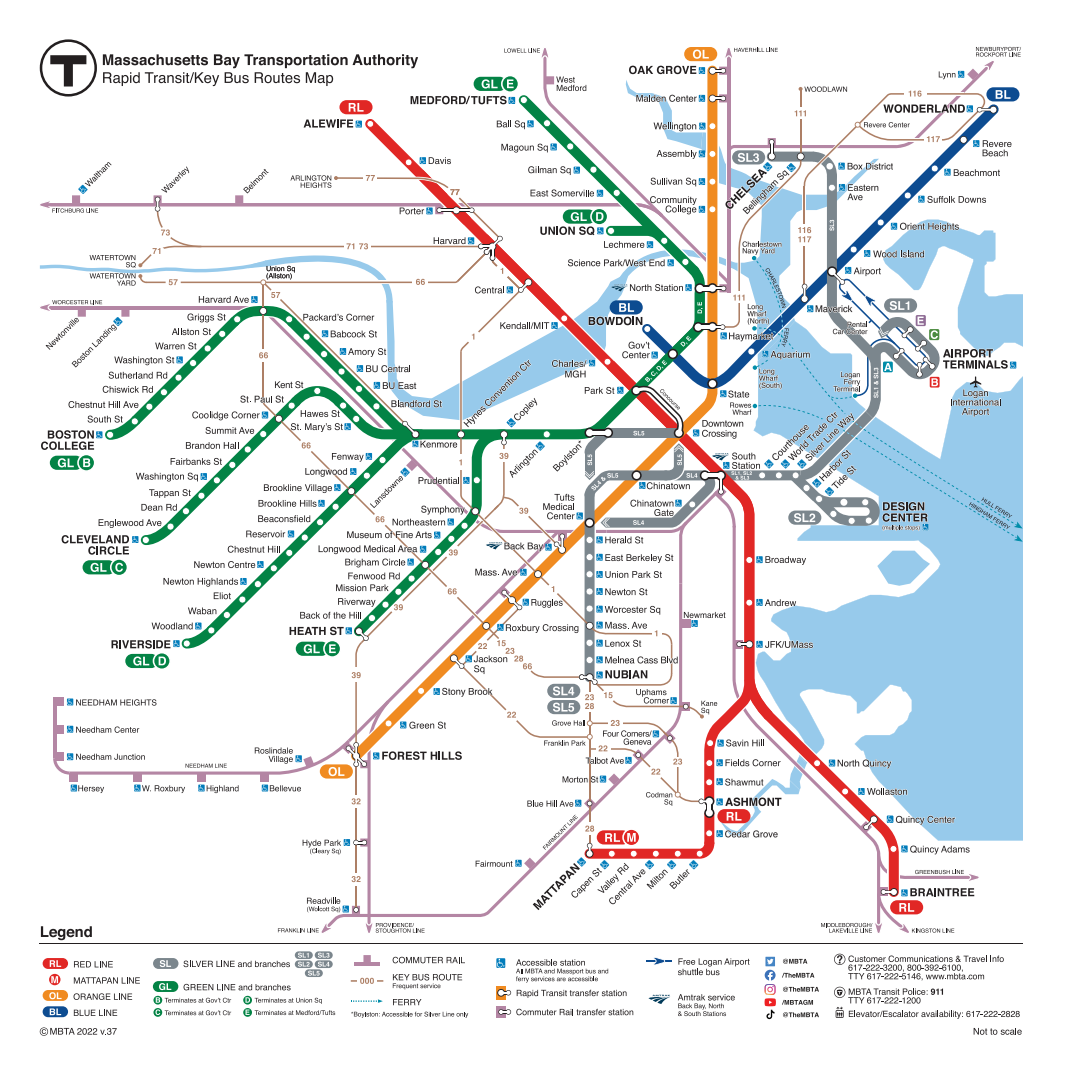
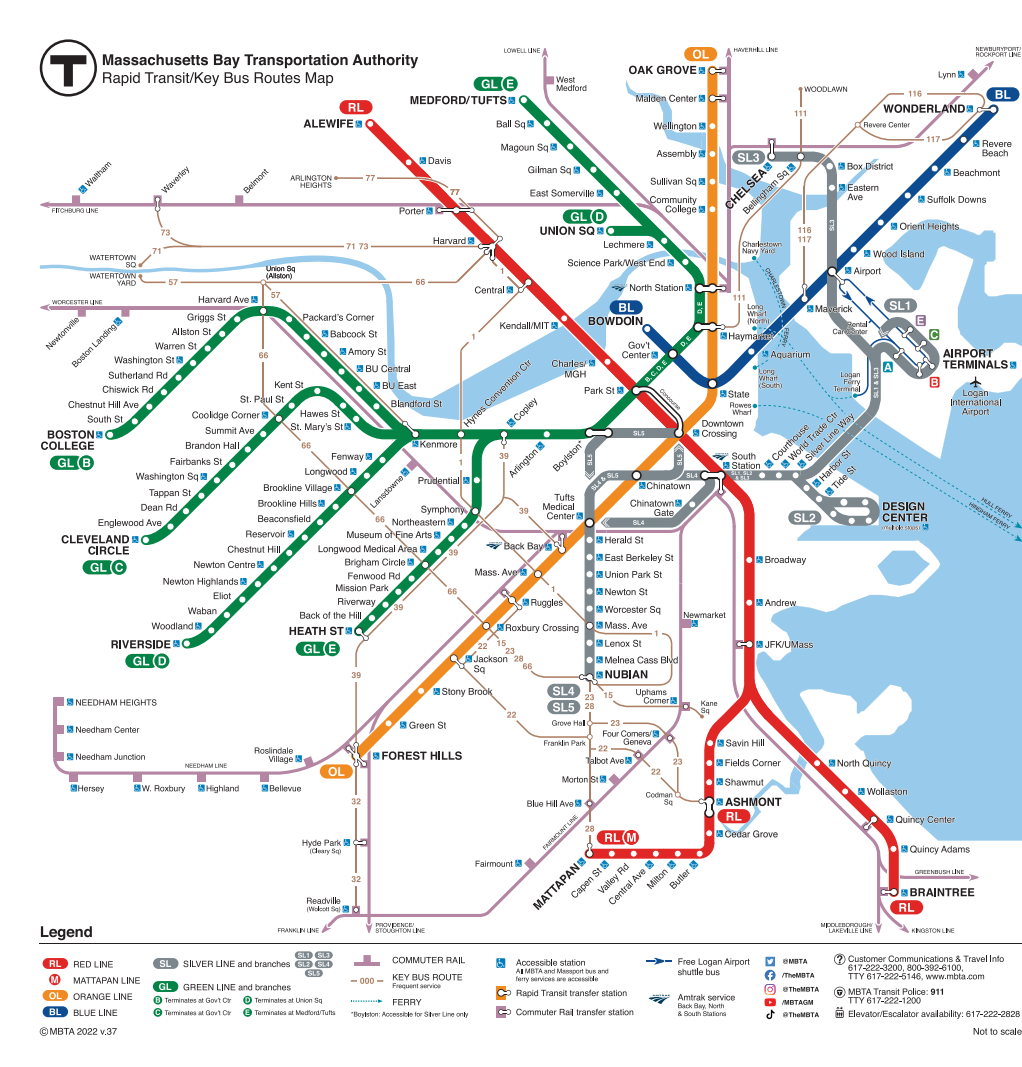
Scheduling UI + map pg

Changed region(s): [[0.0303, 0.0309, 1.0, 0.9897], [0.2123, 0.1546, 0.3337, 0.1856], [0.0607, 0.1546, 0.1213, 0.2165]]

diff --git a/frontend/src/components/pages/homePage.js b/frontend/src/components/pages/homePage.js
@@ -37,7 +37,7 @@ const HomePage = () => {
         <h3 className="text-center my-5">Methods of Transportation</h3>
         <div className="row row-cols-1 row-cols-md-2 row-cols-lg-4 g-4 justify-content-center">
           {[{name: "Commuter Rail",imgSrc: "commuterrailicon.png",onClick: () => navigate("/cmlines"), color: "#84246c"},{name: "Subway",imgSrc: "subwayicon.png",onClick: () => navigate("/subwaylines"),color: "#4c4c5c"},{name: "Bus",imgSrc: "busicon.png",onClick: () => navigate("/buslines"),color: "#fac32c"},{name: "Ferry",imgSrc: "ferryicon.png",onClick: () => navigate("/ferrylines"),color: "#058cac"},].map((transportation, index) => (
-            <div className="col" key={index} style={{ width: "325px" }}>
+            <div className="col" key={index} style={{ width: "330px" }}>
               <div className="card" style={{ height: "375px" }}>
                 <button
                   className="btn"
@@ -55,37 +55,6 @@ const HomePage = () => {
             </div>
           ))}
         </div>
-        <div className="my-5">
-          <h3 className="text-center">Alerts</h3>
-          {alerts.map((alert, index) => (
-            <Card
-              key={index}
-              body
-              outline
-              color="success"
-              className="mx-1 my-2"
-              style={{ width: "30rem" }}
-            >
-              <div className="alert alert-info">
-                <Card.Body>
-                  <Card.Title>Alert</Card.Title>
-                  <Card.Text>
-                    {alert.attributes.header + alert.attributes.description}
-                  </Card.Text>
-                  <Card.Text>
-                    Time:{" "}
-                    {new Date(alert.attributes.updated_at).toLocaleString()}
-                  </Card.Text>
-                </Card.Body>
-              </div>
-            </Card>
-          ))}
-        </div>
-      </div>
-      <div className="d-flex justify-content-center my-5">
-        <button className="btn btn-danger" onClick={handleClick}>
-          Log Out
-        </button>
       </div>
     </>
   );

diff --git a/frontend/src/components/pages/subwayschedule.js b/frontend/src/components/pages/subwayschedule.js
@@ -58,7 +58,7 @@ function Subwayschedule() {
     .slice(0, 50);
 
     return (
-      <div style={{backgroundColor: '#5B4EB9', color: 'white', height: '1500px', overflowY: 'scroll'}}>
+      <div style={{backgroundColor: '#333740', color: 'white', height: '1500px', overflowY: 'scroll'}}>
         <h1>{subway} Line Schedule</h1>
         <div style={{marginBottom: '20px'}}>
           <span style={{marginRight: '10px'}}>Direction:</span>
@@ -68,7 +68,7 @@ function Subwayschedule() {
           </select>
         </div>
         {arrivals.map(schedule => (
-          <Card key={schedule.id} style={{backgroundColor: '#2C2B50', color: 'white'}}>
+          <Card key={schedule.id} style={{backgroundColor: '#5b616b', color: 'white'}}>
             <Card.Body>
               <Card.Title>{getStationName(schedule)}</Card.Title>
               <Card.Text>

diff --git a/frontend/src/components/pages/busschedule.js b/frontend/src/components/pages/busschedule.js
@@ -58,7 +58,7 @@ useEffect(() => {
     .slice(0, 50);
 
     return (
-      <div style={{backgroundColor: '#5B4EB9', color: 'white', height: '1500px', overflowY: 'scroll'}}>
+      <div style={{backgroundColor: '#b38b1f', color: 'white', height: '1500px', overflowY: 'scroll'}}>
         <h1>{bus} Line Schedule</h1>
         <div style={{marginBottom: '20px'}}>
           <span style={{marginRight: '10px'}}>Direction:</span>
@@ -68,7 +68,7 @@ useEffect(() => {
           </select>
         </div>
         {arrivals.map(schedule => (
-          <Card key={schedule.id} style={{backgroundColor: '#2C2B50', color: 'white'}}>
+          <Card key={schedule.id} style={{backgroundColor: '#e6b328', color: 'white'}}>
             <Card.Body>
               <Card.Title>{getStationName(schedule)}</Card.Title>
               <Card.Text>

diff --git a/frontend/src/components/pages/cmlinesschedule.js b/frontend/src/components/pages/cmlinesschedule.js
@@ -58,7 +58,7 @@ function CommuterRailSchedule() {
     .slice(0, 50);
 
   return (
-    <div style={{backgroundColor: '#5B4EB9', color: 'white'}}>
+    <div style={{backgroundColor: '#5c194c', color: 'white'}}>
     <h1>{id.substring(3)} Line Schedule</h1>
       <div style={{marginBottom: '20px'}}>
         <span style={{marginRight: '10px'}}>Direction:</span>
@@ -68,7 +68,7 @@ function CommuterRailSchedule() {
         </select>
       </div>
       {arrivals.map(schedule => (
-        <Card key={schedule.id} style={{backgroundColor: '#2C2B50', color: 'white'}}>
+        <Card key={schedule.id} style={{backgroundColor: '#84246c', color: 'white'}}>
           <Card.Body>
             <Card.Title>{getStationName(schedule)}</Card.Title>
             <Card.Text>

diff --git a/frontend/src/components/pages/cmlines.js b/frontend/src/components/pages/cmlines.js
@@ -67,7 +67,7 @@ function Lines() {
     padding: '10px',
     margin: '5px',
     fontSize: '1em',
-    backgroundColor: '#fff8f2',
+    backgroundColor: 'white',
     color: 'black',
     border: 'white',
     borderRadius: '5px',
@@ -78,14 +78,14 @@ function Lines() {
     margin: '5px',
     padding: '10px',
     fontSize: '20px',
-    backgroundColor: 'lightblue',
-    border: '1px solid darkblue',
+    backgroundColor: '#ffffff',
+    border: '3px #84246c solid',
     borderRadius: '5px',
   }
 
   return (
     <div>
-      <h1>MBTA Commuter Rail Lines and Alerts</h1>
+<h1 className="text-center">MBTA Commuter Rail Lines and Alerts</h1>
 
       <div style={{ display: 'flex' }}>
         <div style={{ flex: 1 }}>

diff --git a/frontend/src/components/pages/subwaylines.js b/frontend/src/components/pages/subwaylines.js
@@ -69,7 +69,7 @@ useEffect(() => {
     padding: '10px',
     margin: '5px',
     fontSize: '1em',
-    backgroundColor: '#fff8f2',
+    backgroundColor: 'white',
     color: 'black',
     border: 'white',
     borderRadius: '5px',
@@ -80,14 +80,14 @@ useEffect(() => {
     margin: '5px',
     padding: '10px',
     fontSize: '20px',
-    backgroundColor: 'lightblue',
-    border: '1px solid darkblue',
+    backgroundColor: 'white',
+    border: '3px solid #4c4c5c',
     borderRadius: '5px',
   }
 
   return (
     <div>
-      <h1>MBTA Subway Lines</h1>
+      <h1 className="text-center">MBTA Subway Lines and Alerts</h1>
 
       <div style={{ display: 'flex' }}>
         <div style={{ flex: 1 }}>

diff --git a/frontend/src/components/pages/buslines.js b/frontend/src/components/pages/buslines.js
@@ -65,7 +65,7 @@ useEffect(() => {
     padding: '10px',
     margin: '5px',
     fontSize: '1em',
-    backgroundColor: '#fff8f2',
+    backgroundColor: 'white',
     color: 'black',
     border: 'white',
     borderRadius: '5px',
@@ -76,14 +76,14 @@ useEffect(() => {
     margin: '5px',
     padding: '10px',
     fontSize: '20px',
-    backgroundColor: 'lightblue',
-    border: '1px solid darkblue',
+    backgroundColor: 'white',
+    border: '3px solid #fac32c',
     borderRadius: '5px',
   }
 
   return (
     <div>
-      <h1>MBTA Bus Routes</h1>
+      <h1 className="text-center">MBTA Bus Routes and Alerts</h1>
 
       <div style={{ display: 'flex' }}>
         <div style={{ flex: 1 }}>

diff --git a/frontend/src/components/pages/ferrylines.js b/frontend/src/components/pages/ferrylines.js
@@ -67,7 +67,7 @@ useEffect(() => {
     padding: '10px',
     margin: '5px',
     fontSize: '1em',
-    backgroundColor: '#fff8f2',
+    backgroundColor: 'white',
     color: 'black',
     border: 'white',
     borderRadius: '5px',
@@ -78,14 +78,14 @@ useEffect(() => {
     margin: '5px',
     padding: '10px',
     fontSize: '20px',
-    backgroundColor: 'lightblue',
-    border: '1px solid darkblue',
+    backgroundColor: 'white',
+    border: '1px solid #058cac',
     borderRadius: '5px',
   }
 
   return (
     <div>
-    <h1>MBTA Ferry Routes</h1>
+    <h1 className="text-center">MBTA Ferry Routes and Alerts</h1>
 
     <div style={{ display: 'flex' }}>
       <div style={{ flex: 1 }}>

diff --git a/frontend/src/components/navbar.js b/frontend/src/components/navbar.js
@@ -21,7 +21,7 @@ export default function Navbar() {
           <Nav.Link href="/subwaylines" style={{ fontSize: "17px" }}>Subway</Nav.Link>
           <Nav.Link href="/buslines" style={{ fontSize: "17px" }}>Bus</Nav.Link>
           <Nav.Link href="/ferrylines" style={{ fontSize: "17px" }}>Ferry</Nav.Link>
-          <Nav.Link href="/map" style={{ fontSize: "22px" }}>Map</Nav.Link>
+          <Nav.Link href="/map" style={{ fontSize: "22px" }}>Maps</Nav.Link>
           <Nav.Link href="/addComment"style={{ fontSize: "22px" }}>Comment</Nav.Link>
           <Nav.Link href="/privateUserProfile" style={{ fontSize: "22px" }}>Profile</Nav.Link>
         </Nav>

diff --git a/frontend/src/components/pages/ferryschedule.js b/frontend/src/components/pages/ferryschedule.js
@@ -49,10 +49,10 @@ function Ferryschedule() {
     .slice(0, 50);
 
   return (
-    <div style={{backgroundColor: '#5B4EB9', color: 'white'}}>
+    <div style={{backgroundColor: '#007288', color: 'white'}}>
     <h1>{ferry.substring(5)} Line Schedule</h1>
       {arrivals.map(schedule => (
-        <Card key={schedule.id} style={{backgroundColor: '#2C2B50', color: 'white'}}>
+        <Card key={schedule.id} style={{backgroundColor: '#008eaa', color: 'white'}}>
           <Card.Body>
             <Card.Title>{getStationName(schedule).substring(5)}</Card.Title>
             <Card.Text>

diff --git a/frontend/src/components/pages/map.js b/frontend/src/components/pages/map.js
@@ -4,7 +4,9 @@ export default function Map() {
     return (
       <div style={{ display: 'flex', justifyContent: 'center', alignItems: 'center' }}>
         <img src= "/mbtamap1.png" alt="MBTA Map" style={{ width: '50%', height: 'auto' }} />
+        <img src= "/mbta+cr.png" alt="MBTA Map" style={{ width: '50%', height: 'auto' }} />
       </div>
+      
     );
   }
 
